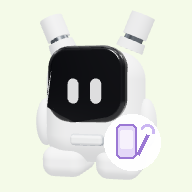
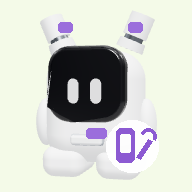
fix: distinguish the three NOVA robots and saturate their props
Keep the white NOVA body, and mark each role with an antenna tip, a chest accent, and one small accessory. The console, app, and calendar use the same pastel strength as the other tools.

diff --git a/src-dashboard/office-bots.jsx b/src-dashboard/office-bots.jsx
@@ -61,12 +61,71 @@ const robotShell = createRobotShell();
 function ShellMat() {
   return <meshStandardMaterial color="#f1f2f3" roughness={0.48}/>;
 }
-function RobotBody({eyes, arm}) {
+const MARKS = {
+  command: {band: '#2f8fc4', tip: '#4eb4e8', chest: '#3aa0d8'},
+  'app-helper': {band: '#8b62d0', tip: '#c4a6f5', chest: '#b48aee'},
+  planner: {band: '#178a5c', tip: '#4ed4a4', chest: '#3ecf9a'},
+};
+function Antenna({side, mark}) {
+  const accent = mark && MARKS[mark];
+  const stalk = mark === 'command' ? 0.16 : mark === 'app-helper' ? 0.18 : 0.24;
+  const stalkY = 0.15 + stalk / 2;
+  return <group position={[side * 0.36, 1.33, 0]} rotation={[0, 0, side * -0.4]}>
+    <mesh position={[0, 0.055, 0]}><cylinderGeometry args={[0.14, 0.15, 0.1, 28]}/><meshStandardMaterial color="#e5e7e9" roughness={0.35}/></mesh>
+    <mesh position={[0, 0.13, 0]}><cylinderGeometry args={[0.11, 0.11, 0.05, 28]}/><meshStandardMaterial color={accent.band} metalness={0.25} roughness={0.28}/></mesh>
+    <mesh position={[0, stalkY, 0]} castShadow><cylinderGeometry args={[0.12, 0.13, stalk, 28]}/><meshStandardMaterial color="#f0f1f3" roughness={0.35}/></mesh>
+    {mark === 'command' && <mesh position={[0, stalkY + stalk / 2 + 0.045, 0]} castShadow><sphereGeometry args={[0.085, 20, 14]}/><meshStandardMaterial color={accent.tip} roughness={0.32}/></mesh>}
+    {mark === 'app-helper' && <mesh position={[0, stalkY + stalk / 2 + 0.02, 0]} castShadow><cylinderGeometry args={[0.16, 0.16, 0.045, 24]}/><meshStandardMaterial color={accent.tip} roughness={0.32}/></mesh>}
+    {mark === 'planner' && <mesh position={[0, stalkY + stalk / 2 + 0.05, 0]} castShadow><sphereGeometry args={[0.065, 18, 12]}/><meshStandardMaterial color={accent.tip} roughness={0.32}/></mesh>}
+  </group>;
+}
+function Headset() {
+  return <group>
+    {[-1, 1].map(side => <mesh key={side} position={[side * 0.46, 1.02, 0.02]} rotation={[0, 0, Math.PI / 2]} castShadow>
+      <cylinderGeometry args={[0.08, 0.08, 0.05, 20]}/>
+      <meshStandardMaterial color="#3aa0d8" roughness={0.32}/>
+    </mesh>)}
+    <mesh position={[0.3, 0.9, 0.26]} rotation={[0.7, 0.2, -0.5]} castShadow>
+      <capsuleGeometry args={[0.014, 0.2, 4, 8]}/>
+      <meshStandardMaterial color="#2f8fc4" roughness={0.32}/>
+    </mesh>
+    <mesh position={[0.38, 0.78, 0.34]} castShadow>
+      <sphereGeometry args={[0.028, 12, 10]}/>
+      <meshStandardMaterial color="#4eb4e8" roughness={0.3}/>
+    </mesh>
+  </group>;
+}
+function Goggles() {
+  return <group position={[0, 1.3, 0.4]}>
+    {[-0.13, 0.13].map(x => <mesh key={x} position={[x, 0, 0]}>
+      <torusGeometry args={[0.075, 0.018, 8, 18]}/>
+      <meshStandardMaterial color="#b48aee" roughness={0.3}/>
+    </mesh>)}
+    <mesh position={[0, 0, 0]} rotation={[0, 0, Math.PI / 2]}>
+      <cylinderGeometry args={[0.012, 0.012, 0.1, 8]}/>
+      <meshStandardMaterial color="#8b62d0" roughness={0.32}/>
+    </mesh>
+  </group>;
+}
+function PlannerMarks() {
+  return <group>
+    <mesh position={[-0.2, 0.62, 0.38]} castShadow>
+      <cylinderGeometry args={[0.055, 0.055, 0.028, 20]}/>
+      <meshStandardMaterial color="#3ecf9a" roughness={0.32}/>
+    </mesh>
+    <mesh position={[0.2, 0.58, 0.38]} rotation={[0.15, 0, 0.55]} castShadow>
+      <capsuleGeometry args={[0.016, 0.16, 4, 8]}/>
+      <meshStandardMaterial color="#178a5c" roughness={0.32}/>
+    </mesh>
+  </group>;
+}
+function RobotBody({eyes, arm, mark}) {
+  const accent = mark && MARKS[mark];
   return <group>
     {['torso', 'inset'].map(part => <mesh key={part} geometry={robotShell[part]} position={[0, 0.73, 0]} castShadow dispose={null}><ShellMat/></mesh>)}
     {[-0.29, 0.29].map(x => <RoundedBox key={x} args={[0.46, 0.32, 0.66]} radius={0.13} smoothness={4} position={[x, 0.16, 0.015]} castShadow><ShellMat/></RoundedBox>)}
     <RoundedBox args={[0.35, 0.115, 0.08]} radius={0.05} smoothness={3} position={[0, 0.41, 0.36]}><meshStandardMaterial color="#9ca3aa" roughness={0.45}/></RoundedBox>
-    <RoundedBox args={[0.326, 0.096, 0.06]} radius={0.045} smoothness={3} position={[0, 0.41, 0.4]}><meshStandardMaterial color="#e2e5e8" roughness={0.4}/></RoundedBox>
+    <RoundedBox args={[0.326, 0.096, 0.06]} radius={0.045} smoothness={3} position={[0, 0.41, 0.4]}><meshStandardMaterial color={accent ? accent.chest : '#e2e5e8'} roughness={0.35}/></RoundedBox>
     <mesh geometry={robotShell.head} position={[0, 0.73, 0]} castShadow dispose={null}><ShellMat/></mesh>
     <RoundedBox args={[0.79, 0.76, 0.22]} radius={0.22} smoothness={6} position={[0, 0.97, 0.335]} castShadow>
       <meshPhysicalMaterial color="#101116" roughness={0.16} metalness={0.2} clearcoat={1} clearcoatRoughness={0.08}/>
@@ -81,11 +140,16 @@ function RobotBody({eyes, arm}) {
         <meshStandardMaterial color="#eef0f2" roughness={0.45}/>
       </mesh>
     </group>)}
-    {[-1, 1].map(side => <group key={`ear-${side}`} position={[side * 0.36, 1.33, 0]} rotation={[0, 0, side * -0.4]}>
-      <mesh position={[0, 0.055, 0]}><cylinderGeometry args={[0.14, 0.15, 0.1, 28]}/><meshStandardMaterial color="#e5e7e9" roughness={0.35}/></mesh>
-      <mesh position={[0, 0.13, 0]}><cylinderGeometry args={[0.1, 0.1, 0.05, 28]}/><meshStandardMaterial color="#777d84" metalness={0.8} roughness={0.25}/></mesh>
-      <mesh position={[0, 0.27, 0]} castShadow><cylinderGeometry args={[0.13, 0.13, 0.24, 28]}/><meshStandardMaterial color="#f0f1f3" roughness={0.35}/></mesh>
-    </group>)}
+    {mark
+      ? [-1, 1].map(side => <Antenna key={`ear-${side}`} side={side} mark={mark}/>)
+      : [-1, 1].map(side => <group key={`ear-${side}`} position={[side * 0.36, 1.33, 0]} rotation={[0, 0, side * -0.4]}>
+        <mesh position={[0, 0.055, 0]}><cylinderGeometry args={[0.14, 0.15, 0.1, 28]}/><meshStandardMaterial color="#e5e7e9" roughness={0.35}/></mesh>
+        <mesh position={[0, 0.13, 0]}><cylinderGeometry args={[0.1, 0.1, 0.05, 28]}/><meshStandardMaterial color="#777d84" metalness={0.8} roughness={0.25}/></mesh>
+        <mesh position={[0, 0.27, 0]} castShadow><cylinderGeometry args={[0.13, 0.13, 0.24, 28]}/><meshStandardMaterial color="#f0f1f3" roughness={0.35}/></mesh>
+      </group>)}
+    {mark === 'command' && <Headset/>}
+    {mark === 'app-helper' && <Goggles/>}
+    {mark === 'planner' && <PlannerMarks/>}
   </group>;
 }
 
@@ -186,38 +250,38 @@ const tools = {box: ArchiveBox, badge: Badge, clipboard: Clipboard, calculator: 
 
 function CommandConsole() {
   return <group position={[0, 0.34, 0]} rotation={[0.08, -0.45, 0]}>
-    <Round w={0.78} h={0.14} d={0.48} radius={0.06} segments={3} color="#e7f4fb" position={[0, 0, 0.02]} rough={0.24} coat={0.9}/>
-    <group position={[0, 0.28, -0.02]} rotation={[-0.42, 0, 0]}>
-      <Round w={0.66} h={0.42} d={0.06} radius={0.05} segments={3} color="#d5eaf6" rough={0.22} coat={0.95}/>
-      <mesh position={[0, 0.01, 0.04]} rotation={[0, 0, 0.4]}>
-        <ringGeometry args={[0.09, 0.125, 40]}/>
-        <meshBasicMaterial color="#3d9ec8"/>
+    <Round w={0.78} h={0.16} d={0.5} radius={0.07} segments={3} color="#2f8fc4" position={[0, 0, 0.02]} rough={0.24} coat={0.92}/>
+    <group position={[0, 0.3, -0.02]} rotation={[-0.42, 0, 0]}>
+      <Round w={0.66} h={0.44} d={0.07} radius={0.05} segments={3} color="#4eb4e8" rough={0.22} coat={0.95}/>
+      <mesh position={[0, 0.01, 0.045]} rotation={[0, 0, 0.4]}>
+        <ringGeometry args={[0.1, 0.14, 40]}/>
+        <meshBasicMaterial color="#e7f6fd"/>
       </mesh>
-      <mesh position={[0, 0.01, 0.045]}>
-        <sphereGeometry args={[0.028, 16, 12]}/>
-        <meshBasicMaterial color="#7ec8ee"/>
+      <mesh position={[0, 0.01, 0.05]}>
+        <sphereGeometry args={[0.034, 16, 12]}/>
+        <meshBasicMaterial color="#ffffff"/>
       </mesh>
     </group>
-    {[-0.22, 0.22].map(x => <mesh key={x} position={[x, 0.1, 0.16]} castShadow>
-      <cylinderGeometry args={[0.045, 0.05, 0.07, 20]}/>
-      <Gloss color="#7ec8ee" rough={0.24} coat={0.9}/>
+    {[-0.22, 0.22].map(x => <mesh key={x} position={[x, 0.12, 0.16]} castShadow>
+      <cylinderGeometry args={[0.05, 0.055, 0.08, 20]}/>
+      <Gloss color="#d7f0fb" rough={0.24} coat={0.9}/>
     </mesh>)}
   </group>;
 }
 
 function AppStudio() {
   return <group position={[0, 0.42, 0]} rotation={[0, -0.32, 0]}>
-    <Round w={0.46} h={0.78} d={0.08} radius={0.12} segments={4} color="#e4d8f8" rough={0.24} coat={0.92}/>
-    <Round w={0.34} h={0.48} d={0.03} radius={0.05} segments={3} color="#f6f1fc" position={[0, 0.06, 0.045]} rough={0.3} coat={0.7} castShadow={false}/>
-    <Round w={0.1} h={0.035} d={0.02} radius={0.014} segments={2} color="#cbb6f2" position={[0, -0.28, 0.05]} rough={0.3} coat={0.6} castShadow={false}/>
-    <group position={[0.3, -0.02, 0.08]} rotation={[0.15, 0.1, 0.85]}>
+    <Round w={0.48} h={0.8} d={0.09} radius={0.12} segments={4} color="#b08af0" rough={0.24} coat={0.92}/>
+    <Round w={0.34} h={0.48} d={0.03} radius={0.05} segments={3} color="#f4effc" position={[0, 0.06, 0.05]} rough={0.3} coat={0.7} castShadow={false}/>
+    <Round w={0.1} h={0.04} d={0.02} radius={0.016} segments={2} color="#7a4ec4" position={[0, -0.28, 0.055]} rough={0.3} coat={0.6} castShadow={false}/>
+    <group position={[0.32, -0.02, 0.1]} rotation={[0.15, 0.1, 0.85]}>
       <mesh castShadow>
-        <capsuleGeometry args={[0.028, 0.26, 4, 8]}/>
-        <Gloss color="#9b78d4" rough={0.26} coat={0.85}/>
+        <capsuleGeometry args={[0.032, 0.28, 4, 8]}/>
+        <Gloss color="#7a4ec4" rough={0.24} coat={0.9}/>
       </mesh>
-      <mesh position={[0, 0.18, 0]} rotation={[0, 0, Math.PI / 2]} castShadow>
-        <torusGeometry args={[0.07, 0.022, 8, 16, Math.PI]}/>
-        <Gloss color="#cbb6f2" rough={0.26} coat={0.85}/>
+      <mesh position={[0, 0.2, 0]} rotation={[0, 0, Math.PI / 2]} castShadow>
+        <torusGeometry args={[0.08, 0.026, 8, 16, Math.PI]}/>
+        <Gloss color="#d4c2f8" rough={0.24} coat={0.9}/>
       </mesh>
     </group>
   </group>;
@@ -227,13 +291,13 @@ function PlanCalendar() {
   const days = [];
   for (let row = 0; row < 3; row++) for (let col = 0; col < 3; col++) days.push([col, row]);
   return <group position={[0, 0.42, 0]} rotation={[0, -0.34, 0]}>
-    <Round w={0.64} h={0.72} d={0.08} radius={0.06} segments={4} color="#f3fbf7" rough={0.24} coat={0.9}/>
-    <Round w={0.64} h={0.16} d={0.09} radius={0.04} segments={3} color="#7ee0c2" position={[0, 0.28, 0.005]} rough={0.24} coat={0.85}/>
-    {[-0.16, 0.16].map(x => <mesh key={x} position={[x, 0.4, 0]} castShadow>
-      <cylinderGeometry args={[0.028, 0.028, 0.12, 12]}/>
-      <Gloss color="#1f9a66" rough={0.3} coat={0.7}/>
+    <Round w={0.66} h={0.74} d={0.1} radius={0.07} segments={4} color="#3ecf9a" rough={0.24} coat={0.92}/>
+    <Round w={0.66} h={0.16} d={0.11} radius={0.04} segments={3} color="#178a5c" position={[0, 0.29, 0.005]} rough={0.24} coat={0.85}/>
+    {[-0.16, 0.16].map(x => <mesh key={x} position={[x, 0.42, 0]} castShadow>
+      <cylinderGeometry args={[0.03, 0.03, 0.14, 12]}/>
+      <Gloss color="#0f6b46" rough={0.3} coat={0.7}/>
     </mesh>)}
-    {days.map(([col, row]) => <Round key={`${col}-${row}`} w={0.09} h={0.09} d={0.025} radius={0.02} segments={2} color={row === 1 && col === 1 ? '#7ee0c2' : '#d9f3e8'} position={[-0.16 + col * 0.16, 0.08 - row * 0.15, 0.05]} rough={0.3} coat={0.6} castShadow={false}/>)}
+    {days.map(([col, row]) => <Round key={`${col}-${row}`} w={0.1} h={0.1} d={0.03} radius={0.02} segments={2} color={row === 1 && col === 1 ? '#178a5c' : '#f3fbf7'} position={[-0.16 + col * 0.16, 0.06 - row * 0.16, 0.06]} rough={0.28} coat={0.7} castShadow={false}/>)}
   </group>;
 }
 
@@ -274,7 +338,7 @@ export function OfficeBot({variant = 'life', tool = true, prop, shadow = true, r
   return <group {...props}>
     <group ref={root} rotation={[0, rest, 0]} onClick={onSelect}>
       {shadow && <GroundShadow/>}
-      <group position={[Tool ? -0.42 : 0, 0, 0]}><RobotBody eyes={eyes} arm={arm}/></group>
+      <group position={[Tool ? -0.42 : 0, 0, 0]}><RobotBody eyes={eyes} arm={arm} mark={prop}/></group>
       {Tool && <group position={[0.92, 0, 0.02]} scale={1.38}><Tool/></group>}
     </group>
   </group>;

diff --git a/stories/OfficeBots.stories.jsx b/stories/OfficeBots.stories.jsx
@@ -16,7 +16,7 @@ import {AgentPortrait,AlertPoint} from '../src-dashboard/bot-avatar.jsx';
 export default {
   title:'Product/Office bots',
   tags:['autodocs'],
-  parameters:{docs:{description:{component:'大腦總管 NOVA、Office Power 指令中心、Nova App 產生修改小幫手與專案助理共用同一隻白色機器人。後三者各自帶一件道具：控制台、App 與扳手、月曆。其餘 Agent 維持各自的角色造型。'}}}
+  parameters:{docs:{description:{component:'大腦總管 NOVA、Office Power 指令中心、Nova App 產生修改小幫手與專案助理共用同一隻白色機器人。後三者只在天線、胸口色塊和一件小配件上有差別，並各帶一件較飽和的道具：控制台、App 與扳手、月曆。其餘 Agent 維持各自的角色造型。'}}}
 };
 
 function useReduced(){
